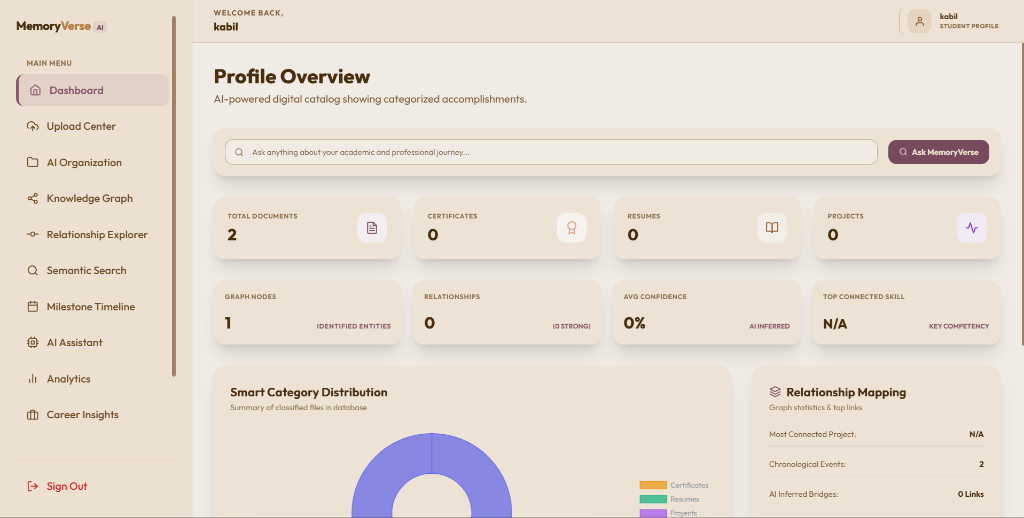
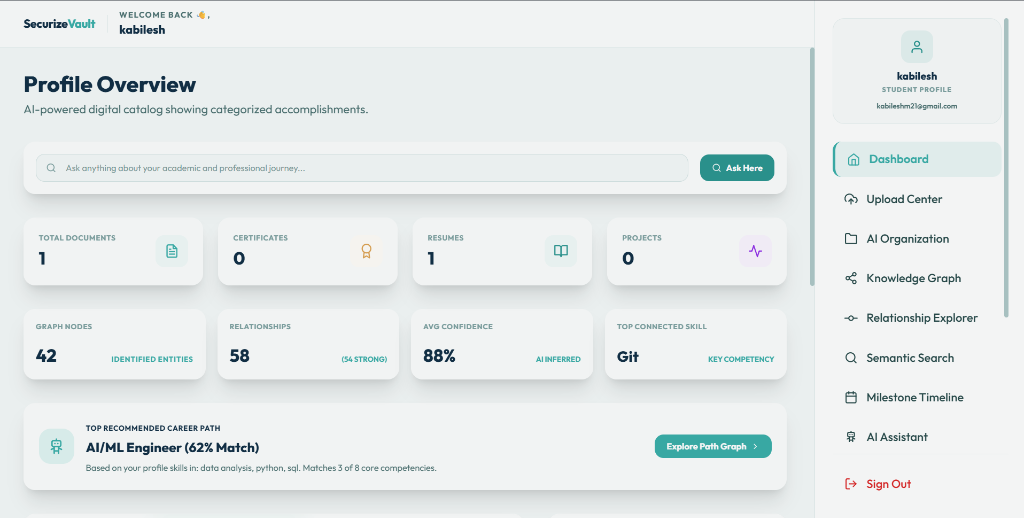
docs: update README with SecurizeVault branding and new screenshots

diff --git a/README.md b/README.md
@@ -1,6 +1,25 @@
-# MemoryVerse AI
+# 🔐 SecurizeVault
 
-MemoryVerse AI is a complete, full-stack Digital Identity System that intelligently stores, analyzes, categorizes, connects, and retrieves your academic and professional accomplishments. It builds an organic semantic knowledge graph of your skills, certifications, reports, and experiences.
+**SecurizeVault** is a complete, full-stack **AI-powered Digital Identity & Credential Management System** that intelligently stores, analyzes, categorizes, connects, and retrieves your academic and professional accomplishments. It builds an organic semantic knowledge graph of your skills, certifications, reports, and experiences — giving you a smart, searchable portfolio.
+
+---
+
+## ✨ Key Features
+
+| Module | Description |
+|---|---|
+| 🔑 **Authentication** | Secure login/register with JWT, forgot password with styled HTML email, and CAPTCHA-protected credential management |
+| 📊 **Dashboard** | Profile overview with document stats, graph nodes, relationship counts, career path recommendations |
+| 📥 **Upload Center** | Drag & drop document uploader (PDF, DOCX, Images) with OCR extraction and AI categorization |
+| 📂 **AI Organization** | AI-powered smart document categorization with confidence scores and category correction |
+| 🕸 **Knowledge Graph** | Interactive force-directed graph visualization of skills, certifications, technologies, and career paths |
+| 🔗 **Relationship Explorer** | Tabular view of all entity relationships with confidence filtering and source indicators |
+| 🔍 **Semantic Search** | Natural language search across your entire portfolio with voice input support |
+| 📅 **Milestone Timeline** | Chronological timeline of your academic and professional achievements |
+| 🤖 **AI Assistant** | Conversational chatbot to explore your portfolio, skills, career compatibility, and documents |
+| 🛡 **Career Insights** | AI-matched career path recommendations based on extracted skills and competencies |
+| 👤 **User Profile** | Editable profile with account details, vault security status, and session information |
+| ⚙ **Settings** | Change password with arithmetic CAPTCHA verification, account preferences |
 
 ---
 
@@ -9,26 +28,58 @@ MemoryVerse AI is a complete, full-stack Digital Identity System that intelligen
 ### 🔑 Authentication Portal
 ![Authentication Portal](docs/images/login.png)
 
-### 📊 Main Dashboard Overview
+### 📊 Dashboard Overview
 ![Dashboard Overview](docs/images/dashboard.png)
 
 ### 📥 Upload Center
 ![Upload Center](docs/images/upload_center.png)
 
-### 📂 AI Smart Organization
-![AI Organization](docs/images/ai_organization.png)
+### 🕸 Knowledge Graph
+![Knowledge Graph](docs/images/knowledge_graph.png)
+
+### 🤖 AI Assistant
+![AI Assistant](docs/images/ai_assistant.png)
 
 ---
 
 ## 🛠 Tech Stack
 
-- **Frontend**: React (Vite) + Tailwind CSS + Framer Motion + Vis.js (Network Graph) + Chart.js + Axios + React Router
-- **Backend**: Spring Boot + Java 17 + Spring Data JPA + Spring Security + JWT Authentication + Java Mail Sender + MySQL
-- **AI Service**: Python + FastAPI
+### Frontend
+- **React 18** (Vite) — Fast HMR development server
+- **Tailwind CSS** — Utility-first styling with custom theme
+- **Framer Motion** — Smooth page transitions and animations
+- **Vis.js Network** — Interactive knowledge graph rendering
+- **Chart.js** — Data visualization and analytics
+- **React Router v6** — Client-side routing
+- **Axios** — HTTP client with JWT interceptors
+- **React Icons** — Feather Icons + Tabler Icons
+
+### Backend
+- **Spring Boot 3.2** — Java 17 REST API framework
+- **Spring Security** — JWT-based stateless authentication
+- **Spring Data JPA** — ORM with Hibernate and MySQL
+- **Java Mail Sender** — Styled HTML email templates (password reset)
+- **Lombok** — Boilerplate reduction with annotations
+
+### AI Service
+- **Python 3** + **FastAPI** — High-performance async API
+- **Google Gemini API** — LLM-powered categorization, entity extraction, and chat
+- **PyPDF / python-docx** — Document text extraction
+- **Multimodal OCR** — Image-to-text via Gemini vision
+
+### Database
+- **MySQL 8** — Relational database for users, documents, entities, and relationships
 
 ---
 
 ## 🚀 Local Setup
+
+### Prerequisites
+- Java 17+
+- Node.js 18+
+- Python 3.9+
+- MySQL 8+
+- Maven 3.8+
 
 ### 1. Database
 Create the database in MySQL:
@@ -56,4 +107,53 @@ cd frontend
 npm install
 npm run dev
 ```
+
 Open your browser at `http://localhost:5173`.
+
+---
+
+## 📁 Project Structure
+
+```
+SecurizeVault/
+├── frontend/              # React + Vite frontend
+│   ├── src/
+│   │   ├── assets/        # Logo and static assets
+│   │   ├── components/    # Navbar, Sidebar, MainLayout
+│   │   ├── context/       # AuthContext, ThemeContext
+│   │   ├── pages/         # All application pages
+│   │   ├── routes/        # AppRoutes configuration
+│   │   └── services/      # API service layer
+│   └── index.html
+├── backend/               # Spring Boot backend
+│   └── src/main/java/com/memoryverse/
+│       ├── controller/    # REST controllers
+│       ├── dto/           # Request/Response DTOs
+│       ├── entity/        # JPA entities
+│       ├── exception/     # Global exception handler
+│       ├── repository/    # Data access layer
+│       ├── security/      # JWT + Spring Security config
+│       └── service/       # Business logic
+├── ai-service/            # Python FastAPI AI microservice
+│   └── app/
+│       ├── categorization/  # Document categorization
+│       ├── routes/          # Ingestion & OCR endpoints
+│       ├── smart_retrieval/ # Semantic search & vector store
+│       └── utils/           # Gemini API utilities
+├── database/              # SQL schema files
+└── docs/images/           # Screenshots for README
+```
+
+---
+
+## 👨💻 Author
+
+**Kabilesh M**
+- GitHub: [@kabilesh21](https://github.com/kabilesh21)
+- Email: kabileshclg0678@gmail.com
+
+---
+
+## 📝 License
+
+This project is for educational and portfolio purposes.
